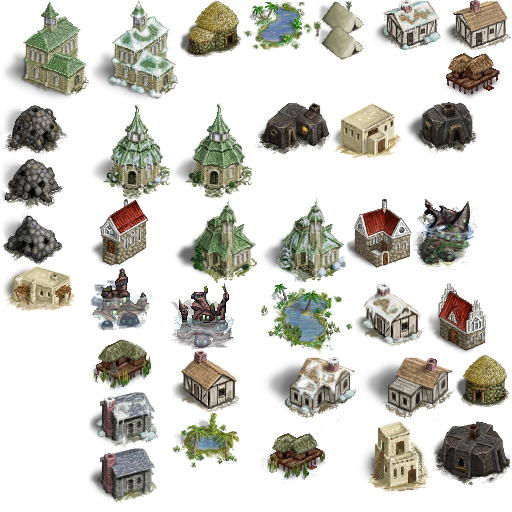
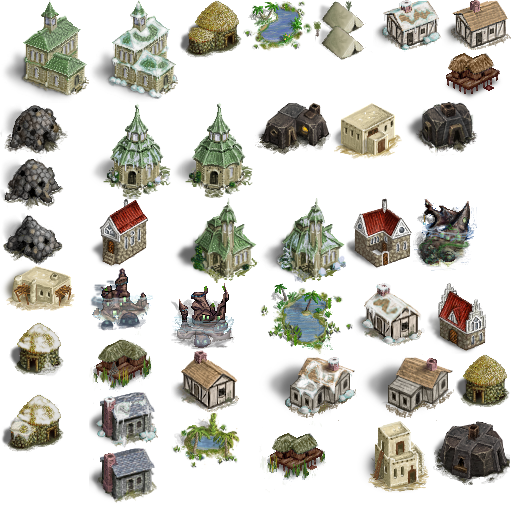
fixes #17

Changed region(s): [[0.0, 0.625, 0.125, 0.9062]]

diff --git a/res/data/core/images/terrain/map.village.h b/res/data/core/images/terrain/map.village.h
@@ -47,3 +47,5 @@ addMapEntry("village/hut2.png", 178, 0, 0, 64, 59, 54, 79, 180, 216, MAP_VILLAGE
 addMapEntry("village/swampwater.png", 259, 421, 0, 68, 72, 54, 72, 180, 216, MAP_VILLAGE);
 addMapEntry("village/swampwater2.png", 89, 331, 0, 64, 61, 57, 73, 180, 216, MAP_VILLAGE);
 addMapEntry("village/tropical-forest.png", 442, 52, 0, 61, 50, 61, 85, 180, 216, MAP_VILLAGE);
+addMapEntry("village/hut-snow.png", 0, 315, 0, 72, 72, 0, 0, 72, 72, MAP_VILLAGE);
+addMapEntry("village/hut-snow2.png", 0, 387, 0, 72, 72, 0, 0, 72, 72, MAP_VILLAGE);
